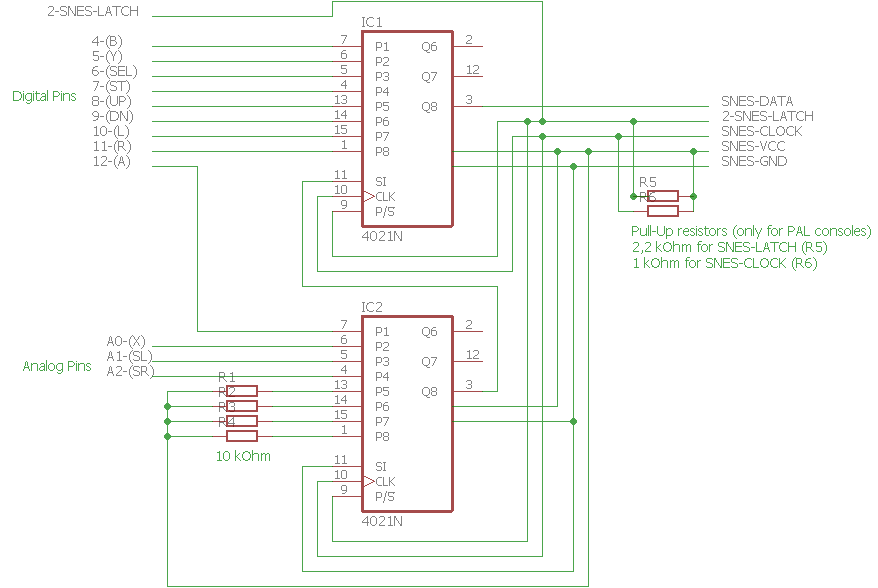
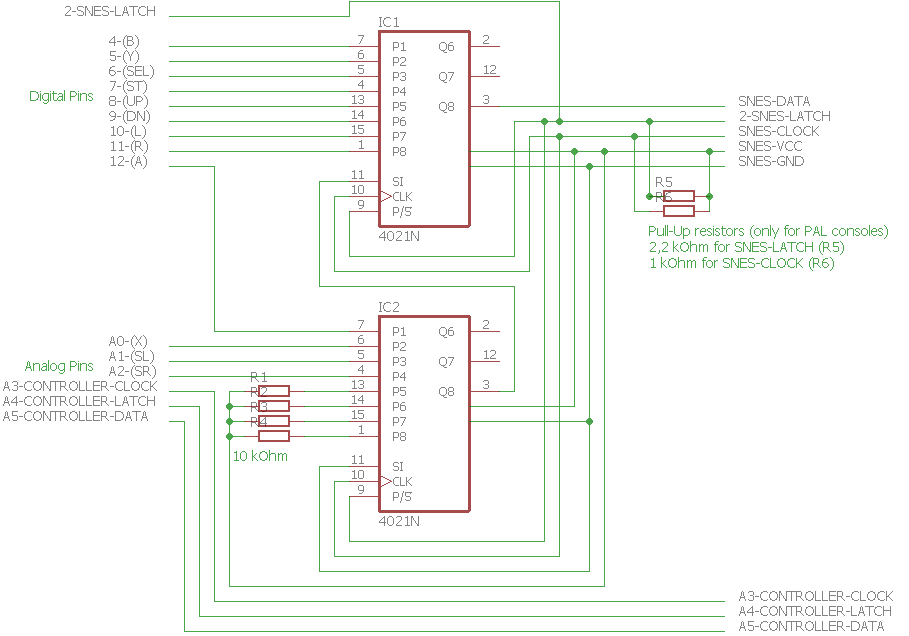
Updated schematic with controller input lines

Changed region(s): [[0.0, 0.0, 0.9841, 1.0]]

diff --git a/arduino_code/src/main.cpp b/arduino_code/src/main.cpp
@@ -1,76 +1,36 @@
 #include <Arduino.h>
-
-// pin to button mapping
-const uint8_t PIN_BTN_B = 4;
-const uint8_t PIN_BTN_Y = 5;
-const uint8_t PIN_BTN_SELECT = 6;
-const uint8_t PIN_BTN_START = 7;
-const uint8_t PIN_BTN_UP = 8;
-const uint8_t PIN_BTN_DOWN = 9;
-const uint8_t PIN_BTN_L = 10;
-const uint8_t PIN_BTN_R = 11;
-const uint8_t PIN_BTN_A = 12;
-
-const uint8_t PIN_BTN_X = A0;
-const uint8_t PIN_BTN_SHOULDER_LEFT = A1;
-const uint8_t PIN_BTN_SHOULDER_RIGHT = A2;
-
-// latch line is attached to an interrupt pin
-const uint8_t PIN_LATCH = 2;
+#include "ReadController/ReadController.h"
+#include "WriteToConsole/WriteToConsole.h"
 
 volatile bool isAfterLatch = false;
 
-uint32_t latchCounter = 0;
-
-void handleFallingLatchPulse() {
+void handleFallingLatchPulse(){
     // keep interrupt handler short, actual code will be executed in main loop
     isAfterLatch = true;
 }
 
 void setup() {
     Serial.begin(9600);
+    ReadController::begin();
+    WriteToConsole::begin();
 
-    pinMode(PIN_BTN_B, OUTPUT);
-    pinMode(PIN_BTN_Y, OUTPUT);
-    pinMode(PIN_BTN_SELECT, OUTPUT);
-    pinMode(PIN_BTN_START, OUTPUT);
-    pinMode(PIN_BTN_UP, OUTPUT);
-    pinMode(PIN_BTN_DOWN, OUTPUT);
-    pinMode(PIN_BTN_L, OUTPUT);
-    pinMode(PIN_BTN_R, OUTPUT);
-    pinMode(PIN_BTN_A, OUTPUT);
-    pinMode(PIN_BTN_X, OUTPUT);
-    pinMode(PIN_BTN_SHOULDER_LEFT, OUTPUT);
-    pinMode(PIN_BTN_SHOULDER_RIGHT, OUTPUT);
-
-    // interrupt pint is set to input per default
     attachInterrupt(digitalPinToInterrupt(PIN_LATCH), handleFallingLatchPulse, FALLING);
-
-    // provide first button states
-    digitalWrite(PIN_BTN_B, LOW);
-    digitalWrite(PIN_BTN_Y, HIGH);
-    digitalWrite(PIN_BTN_SELECT, HIGH);
-    digitalWrite(PIN_BTN_START, HIGH);
-    digitalWrite(PIN_BTN_UP, HIGH);
-    digitalWrite(PIN_BTN_DOWN, LOW);
-    digitalWrite(PIN_BTN_L, HIGH);
-    digitalWrite(PIN_BTN_R, HIGH);
-    digitalWrite(PIN_BTN_A, HIGH);
-    digitalWrite(PIN_BTN_X, HIGH);
-    digitalWrite(PIN_BTN_SHOULDER_LEFT, HIGH);
-    digitalWrite(PIN_BTN_SHOULDER_RIGHT, HIGH);
 }
 
 void loop() {
     if (isAfterLatch) {
         isAfterLatch = false;
-
-        // do something here
-        latchCounter++;
     }
 
-    if (latchCounter % 60 == 0) {
-        Serial.print("Current latchcounter: ");
-        Serial.println(latchCounter, DEC);
-    }
+    ButtonData goDown;
+    goDown.DOWN = false;
+    WriteToConsole::prepareData(goDown);
+
+    delay(2000);
+
+    ButtonData goUp;
+    goUp.UP = false;
+    WriteToConsole::prepareData(goUp);
+
+    delay(2000);
 }
